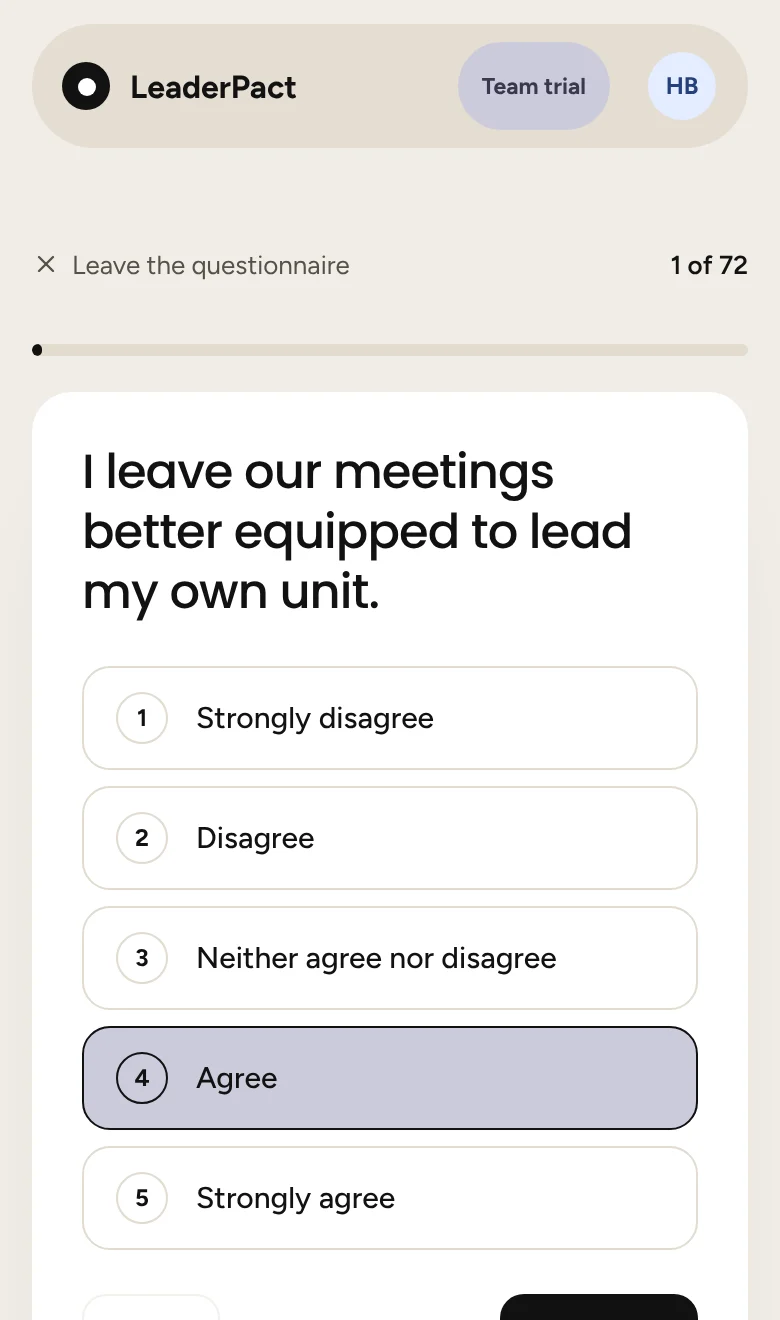
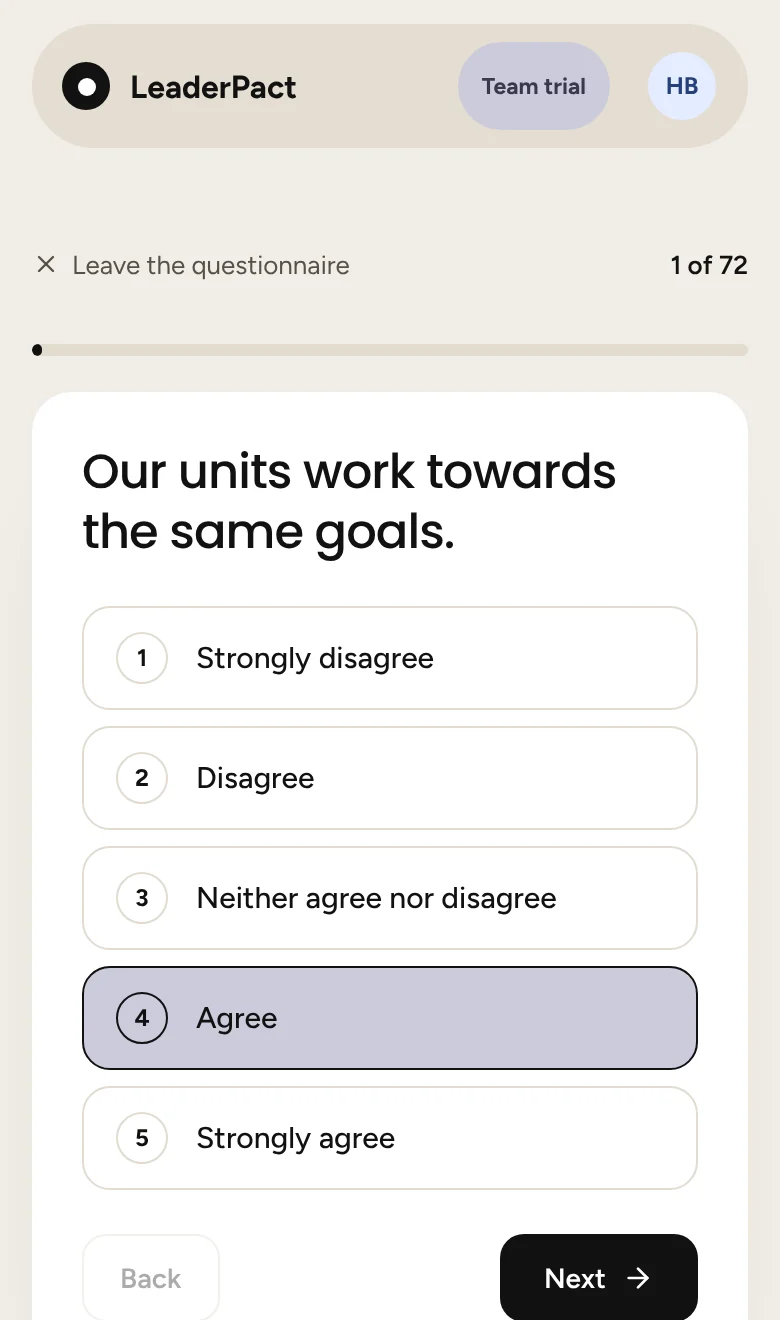
The platform's pages after milestone 12: focus areas and actions, in screenshots (D-47)
- A sixth feature page, /platform/focus-areas: the Plan page with a focus area and its actions, the scales
  to consider, and a member adding an action on a phone. What it brings to the person, the group and the
  organisation; a cycle from results to change; no target on a survey score; nothing of the agenda, which is
  milestone 13. Its own drawing, share card, menu entry (the app's Plan icon), sitemap and llms.txt line.
- The overview marks "Choose focus areas" available, and the Full diagnostic's "In development" box no
  longer lists focus areas. Six feature cards sit three by three.
- The --shots fixture makes Preparation, a priority in round 1, a focus area with four actions, one done,
  through make_focus_area, add_action and set_action_done. Every picture is recaptured: Home and Me now show
  the plan, and the diagnostic's first statement follows the new round's order.
- capture.mjs: a phone picture can keep the screen around one element (`view`), tab bar in place, and the
  browser runs in British English so a date field reads day first.

Claude-Session: https://claude.ai/code/session_0143Hstm2cFVZxJ6zoQzYsR9

diff --git a/components/site/art/ArticleArt.tsx b/components/site/art/ArticleArt.tsx
@@ -406,6 +406,41 @@ function Diagnostic() {
   )
 }
 
+/** a focus area's card and its actions: each with a box to tick, an owner and a day, one already done */
+function Focus() {
+  const rows = [
+    { y: 150, done: true, owner: TEAL, w: 92 },
+    { y: 196, done: false, owner: YELLOW, w: 108 },
+    { y: 242, done: false, owner: LAV_MID, w: 80 },
+  ]
+  return (
+    <>
+      <rect x="120" y="34" width="232" height="250" rx="20" fill={LAV} {...line} />
+      <rect x="92" y="62" width="244" height="256" rx="20" fill={PAPER} {...line} />
+      <rect x="114" y="86" width="150" height="30" rx="15" fill={YELLOW} {...line} />
+      <circle cx="132" cy="101" r="5" fill={INK} />
+      <rect x="146" y="97" width="96" height="8" rx="4" fill={INK} />
+      {rows.map((r, i) => (
+        <g key={i}>
+          <rect x="114" y={r.y - 12} width="24" height="24" rx="7" fill={r.done ? TEAL : PAPER} {...line} />
+          {r.done ? <path d={`M119 ${r.y} l4 4 l8 -9`} fill="none" {...line} /> : null}
+          <Text x={150} y={r.y - 9} w={r.w} fill={r.done ? BAR : INK} />
+          <Text x={150} y={r.y + 4} w={r.w - 30} />
+          <circle cx="286" cy={r.y} r="13" fill={r.owner} {...line} />
+          <circle cx="286" cy={r.y - 3} r="4" fill={INK} />
+          <path d={`M279 ${r.y + 8} C280 ${r.y + 2} ${292} ${r.y + 2} ${293} ${r.y + 8}`} fill={INK} />
+        </g>
+      ))}
+      <g transform="rotate(8 360 250)">
+        <rect x="318" y="208" width="84" height="86" rx="14" fill={PAPER} {...line} />
+        <path d="M318 236 V222 a14 14 0 0 1 14 -14 h56 a14 14 0 0 1 14 14 V236 Z" fill={ORANGE} {...line} />
+        <path d="M338 200 v14 M382 200 v14" {...line} />
+        {[0, 1, 2].flatMap((c) => [0, 1].map((r) => <circle key={`${c}-${r}`} cx={340 + c * 20} cy={254 + r * 20} r="4" fill={c === 1 && r === 0 ? INK : BAR} />))}
+      </g>
+    </>
+  )
+}
+
 /** the loop: scan, team view, charter, diagnostic, back round, around the group */
 function Loop() {
   const steps = [
@@ -455,6 +490,7 @@ const DRAWINGS: Record<ArtKind, () => React.ReactNode> = {
   teamview: TeamView,
   profile: Profile,
   diagnostic: Diagnostic,
+  focus: Focus,
   loop: Loop,
 }
 

diff --git a/tests/unit/fixture.test.ts b/tests/unit/fixture.test.ts
@@ -37,11 +37,11 @@ describe('the fixture', () => {
     // nothing of the screenshots' rows without the flag
     expect(render()).not.toContain(SHOTS.group.id)
     expect(render({ e2e: true })).not.toContain(SHOTS.group.id)
-    // every answer, charter and profile through the function a person's own call uses
-    for (const fn of ['app.submit_scan(', 'app.save_charter_draft(', 'app.agree_charter(', 'app.open_round(', 'app.submit_response(', 'app.save_profile(', 'app.set_profile_share(']) {
+    // every answer, charter, plan and profile through the function a person's own call uses
+    for (const fn of ['app.submit_scan(', 'app.save_charter_draft(', 'app.agree_charter(', 'app.open_round(', 'app.submit_response(', 'app.make_focus_area(', 'app.add_action(', 'app.set_action_done(', 'app.save_profile(', 'app.set_profile_share(']) {
       expect(shots).toContain(fn)
     }
-    expect(shots).not.toMatch(/insert into app\.(scan_response|response|charter_version|personality_profile|profile_share|participation)\b/)
+    expect(shots).not.toMatch(/insert into app\.(scan_response|response|charter_version|personality_profile|profile_share|participation|focus_area|action)\b/)
     for (const p of [...SHOTS.people, ...SHOTS.sales.people]) expect(p.email).toMatch(/@shots\.lumio\.example$/)
     expect(SHOTS.people.filter((p) => p.role === 'leader').map((p) => p.name)).toEqual(['Kari Nordmann'])
     expect(SHOTS.sales.people.filter((p) => p.role === 'leader').map((p) => p.name)).toEqual(['Ingrid Berg'])

diff --git a/tests/e2e/site.spec.ts b/tests/e2e/site.spec.ts
@@ -104,7 +104,7 @@ test('the Platform menu (D-47): opens, lists every feature, closes on Escape and
   await button.click()
   const opened = phone ? page.getByRole('button', { name: 'Close the menu' }) : button
   await expect(opened).toHaveAttribute('aria-expanded', 'true')
-  for (const name of ['Leadership Team Scan', 'Team view', 'Leader Profile', 'Charter and members', 'Full diagnostic', 'How it works', 'Anonymity', 'Research']) {
+  for (const name of ['Leadership Team Scan', 'Team view', 'Leader Profile', 'Charter and members', 'Full diagnostic', 'Focus areas and actions', 'How it works', 'Anonymity', 'Research']) {
     await expect(page.getByRole('banner').getByRole('link', { name: new RegExp(`^${name}`) }).first()).toBeVisible()
   }
   await axe(page)
@@ -126,6 +126,7 @@ for (const [path, heading] of [
   ['/platform/leader-profile', 'The Leader Profile'],
   ['/platform/team-charter', 'The group’s charter'],
   ['/platform/full-diagnostic', 'The Full diagnostic'],
+  ['/platform/focus-areas', 'Focus areas and actions'],
 ] as const) {
   test(`the feature page ${path}: screenshots of the real app, marked, and what it brings`, async ({ page }) => {
     const problems = watch(page)

diff --git a/lib/site/features.ts b/lib/site/features.ts
@@ -8,6 +8,7 @@ import teamView from '@/data/features/team-view.json'
 import profile from '@/data/features/leader-profile.json'
 import charter from '@/data/features/team-charter.json'
 import diagnostic from '@/data/features/full-diagnostic.json'
+import focus from '@/data/features/focus-areas.json'
 
 /**
  * The platform's feature pages (D-47): one page per feature the product has today, under /platform, each with
@@ -55,6 +56,14 @@ export const FEATURES = [
     icon: 'diagnostic',
     queries: ['leadership team diagnostic', 'team effectiveness diagnostic', 'leadership team effectiveness assessment'],
     related: ['how-to-assess-a-leadership-team', 'what-makes-a-leadership-team-effective'],
+  },
+  {
+    slug: 'focus-areas',
+    file: focus,
+    art: 'focus',
+    icon: 'plan',
+    queries: ['leadership team action plan', 'team development plan', 'action plan after a team survey'],
+    related: ['how-to-assess-a-leadership-team', 'leadership-team-meeting-agenda'],
   },
 ] as const satisfies readonly {
   slug: string

diff --git a/components/site/FeaturePage.tsx b/components/site/FeaturePage.tsx
@@ -104,7 +104,7 @@ export async function FeaturePage({ slug, art, content: c, related }: { slug: Fe
 export async function FeatureCards({ items, className }: { items: { slug: string; art: ArtKind; nav: string; summary: string }[]; className?: string }) {
   const t = await getTranslations('site.features')
   return (
-    <ul className={`m-0 grid list-none gap-4 p-0 sm:grid-cols-2 ${items.length === 5 ? 'lg:grid-cols-3 xl:grid-cols-5' : 'lg:grid-cols-4'} ${className ?? ''}`}>
+    <ul className={`m-0 grid list-none gap-4 p-0 sm:grid-cols-2 ${items.length === 5 ? 'lg:grid-cols-3 xl:grid-cols-5' : items.length % 3 === 0 ? 'lg:grid-cols-3' : 'lg:grid-cols-4'} ${className ?? ''}`}>
       {items.map((f) => (
         <li key={f.slug}>
           <Link

diff --git a/components/lp/PlatformMenu.tsx b/components/lp/PlatformMenu.tsx
@@ -3,7 +3,7 @@ import * as React from 'react'
 import Link from 'next/link'
 import type { Route } from 'next'
 import { usePathname } from 'next/navigation'
-import { BarChart3, BookOpen, ChevronDown, ClipboardCheck, ListChecks, Menu, Route as RouteIcon, ScrollText, ShieldCheck, UserRound, X } from 'lucide-react'
+import { BarChart3, BookOpen, ChevronDown, ClipboardCheck, Kanban, ListChecks, Menu, Route as RouteIcon, ScrollText, ShieldCheck, UserRound, X } from 'lucide-react'
 import { cn } from '@/lib/cn'
 
 /**
@@ -18,6 +18,7 @@ const ICONS = {
   profile: UserRound,
   charter: ScrollText,
   diagnostic: ListChecks,
+  plan: Kanban,
   overview: RouteIcon,
   anonymity: ShieldCheck,
   research: BookOpen,

diff --git a/tests/unit/features.test.ts b/tests/unit/features.test.ts
@@ -16,7 +16,7 @@ describe('the feature pages', () => {
   it('are registered once each, in the loop’s order', () => {
     const slugs = FEATURES.map((f) => f.slug)
     expect(new Set(slugs).size).toBe(slugs.length)
-    expect(slugs).toEqual(['leadership-team-scan', 'team-view', 'leader-profile', 'team-charter', 'full-diagnostic'])
+    expect(slugs).toEqual(['leadership-team-scan', 'team-view', 'leader-profile', 'team-charter', 'full-diagnostic', 'focus-areas'])
   })
 
   it.each(features.map((f) => [f.entry.slug, f] as const))('%s carries its search in its title, and fits the results page', (_, f) => {

diff --git a/tests/unit/site.test.ts b/tests/unit/site.test.ts
@@ -106,6 +106,7 @@ describe('the product pages', () => {
       'Take the Leader Profile',
       'Agree a charter',
       'Run the full diagnostic',
+      'Choose focus areas',
     ])
     for (const key of Object.keys(PRODUCT_PAGES) as ProductPageKey[]) {
       const text = JSON.stringify(loadPage(key))

diff --git a/lib/site/articles.ts b/lib/site/articles.ts
@@ -32,6 +32,7 @@ export const ART_KINDS = [
   'teamview',
   'profile',
   'diagnostic',
+  'focus',
   'loop',
 ] as const
 export type ArtKind = (typeof ART_KINDS)[number]

diff --git a/docs/DECISIONS.md b/docs/DECISIONS.md
@@ -950,20 +950,23 @@ brings to the user, the leadership group and the organisation, illustrations and
 and several pages under a menu.
 
 - **One page per feature built today** (`lib/site/features.ts`, words in `data/features/`), under `/platform/`:
-  the Leadership Team Scan, the team view, the Leader Profile, the charter and members, and the Full diagnostic.
-  A feature not built has no page; the overview lists it as in development. `/platform` stays the overview,
-  now with each feature's card, and its steps mark the charter and the Full diagnostic as available (milestones
-  9 to 11). The diagnostic's page shows its results in screenshots: the overview of a released round and one
-  scale's page (D-45).
+  the Leadership Team Scan, the team view, the Leader Profile, the charter and members, the Full diagnostic, and
+  focus areas and actions. A feature not built has no page; the overview lists it as in development.
+  `/platform` stays the overview, now with each feature's card, and its steps mark the charter, the Full
+  diagnostic and focus areas as available (milestones 9 to 12). The diagnostic's page shows its results in
+  screenshots: the overview of a released round and one scale's page (D-45). The focus areas' page shows the
+  Plan page (D-46): a focus area with its actions, the scales to consider, and a member adding an action on a
+  phone. It promises nothing of the agenda, which is milestone 13.
 - **Screenshots of the real app, never mock-ups.** `scripts/shots/capture.mjs` signs in as the fixture's people
   on the local stack (D-23, D-27) and photographs the pages as they render, into `public/shots/*.webp` and
   `data/shots.json`. Its rows come from the generator's new `--shots` scenario: the Lumio leadership group with
   the design's names, its scan released from eight answers, its charter at version 2, a Full diagnostic
   released from all eight (each scale with a level and a spread of its own, so the results show every
-  standing) and a second answering at 5 of 8, Kari Nordmann's profile shared as domains, and a sales group
-  whose scan is open at 3 of 7. Every row
-  goes through its write path, as each person (the fixture test holds it). Requests carry the production host,
-  so an invite link reads www.leaderpact.com.
+  standing), Preparation chosen from it as a focus area with four actions (Kari's done), a second round
+  answering at 5 of 8, Kari Nordmann's profile shared as domains, and a sales group whose scan is open at 3 of
+  7. Every row goes through its write path, as each person (the fixture test holds it). The groups' ids (701,
+  702) are their own, clear of the flows'. Requests carry the production host, so an invite link reads
+  www.leaderpact.com, and the browser runs in British English, so a date field reads day first.
 - **Every screenshot is marked.** A "Sample data" chip on the picture and, under it, "A fictional group: every
   name and answer is invented" (CLAUDE.md: sample content is always marked Sample). Desktop pictures show an
   app page's content, cropped from its top bar so the words stay readable, and open at full size.
@@ -973,7 +976,7 @@ and several pages under a menu.
 - **Nothing commercial.** No price, no offer and no button on a feature page; a unit test refuses prices, "per
   seat", "upgrade" and "sign up". Where a feature belongs to the Team plan, the page says so and that a leader
   can try it for 14 days with no billing details (D-33), and nothing about paying, which is not connected.
-- **The Platform menu** replaces "How it works" in the header: a disclosure button whose panel lists the five
+- **The Platform menu** replaces "How it works" in the header: a disclosure button whose panel lists the six
   features and the overview, Anonymity and Research. It closes on Escape (focus returns to the button), on a
   click outside, when focus leaves it and on a new page; the panel exists only while open. Under 768 px a menu
   button beside "Start the scan" opens the header's links and the same pages, which the header had no room for.
@@ -983,7 +986,7 @@ and several pages under a menu.
   named by its title, so two on one page are landmarks a reader can tell apart.
 - **Search:** each page answers its own search (the title carries it, and the inventory refuses a search that
   is the first of two pages), with breadcrumbs, FAQPage data, a share card, the sitemap and llms.txt; the
-  content inventory sends the five pages to Sentral.
+  content inventory sends the six pages to Sentral.
 - **To refresh the pictures** after a screen changes: run the fixture with `--shots`, start the app on the local
   stack, and run `node scripts/shots/capture.mjs` (the steps are in its header). A unit test fails if a page
   names a picture that does not exist, or if a picture is shipped that no page shows.

diff --git a/docs/marketing/seo-geo-strategy.md b/docs/marketing/seo-geo-strategy.md
@@ -78,6 +78,7 @@ keyword in Sentral.
 | leader personality profile; big five test for leaders | `/platform/leader-profile` | Feature page, screenshots, FAQ |
 | leadership team charter software; team decision rights | `/platform/team-charter` | Feature page, screenshots, FAQ |
 | leadership team diagnostic; team effectiveness diagnostic | `/platform/full-diagnostic` | Feature page, screenshots, FAQ |
+| leadership team action plan; team development plan; action plan after a team survey | `/platform/focus-areas` | Feature page, screenshots, FAQ |
 | leadership team effectiveness; high performing leadership team; how to build a high performing leadership team | `/articles/what-makes-a-leadership-team-effective` | Article (pillar) |
 | how to assess a leadership team; leadership team effectiveness survey questions; executive team effectiveness assessment | `/articles/how-to-assess-a-leadership-team` | Article |
 | five dysfunctions of a team; five dysfunctions of a team assessment; lencioni model research | `/articles/five-dysfunctions-of-a-team-and-the-research` | Article (comparison) |
